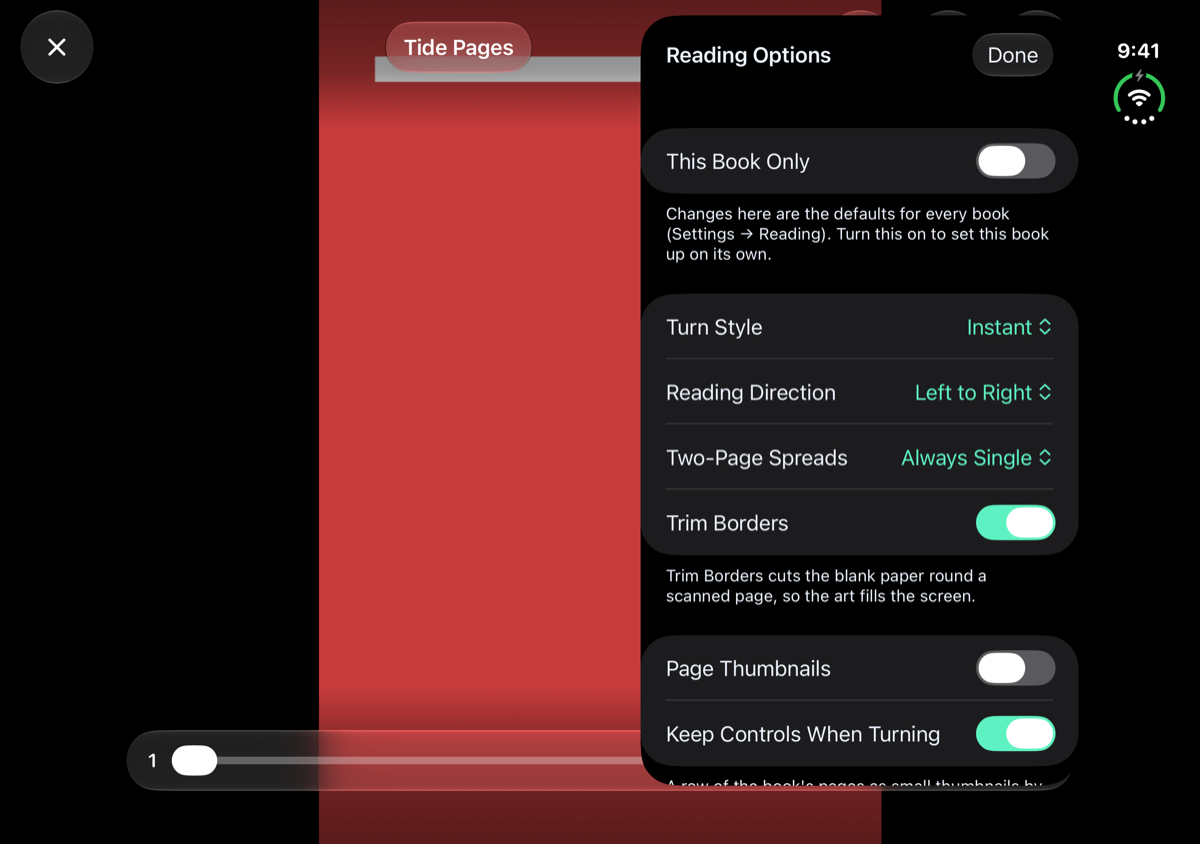
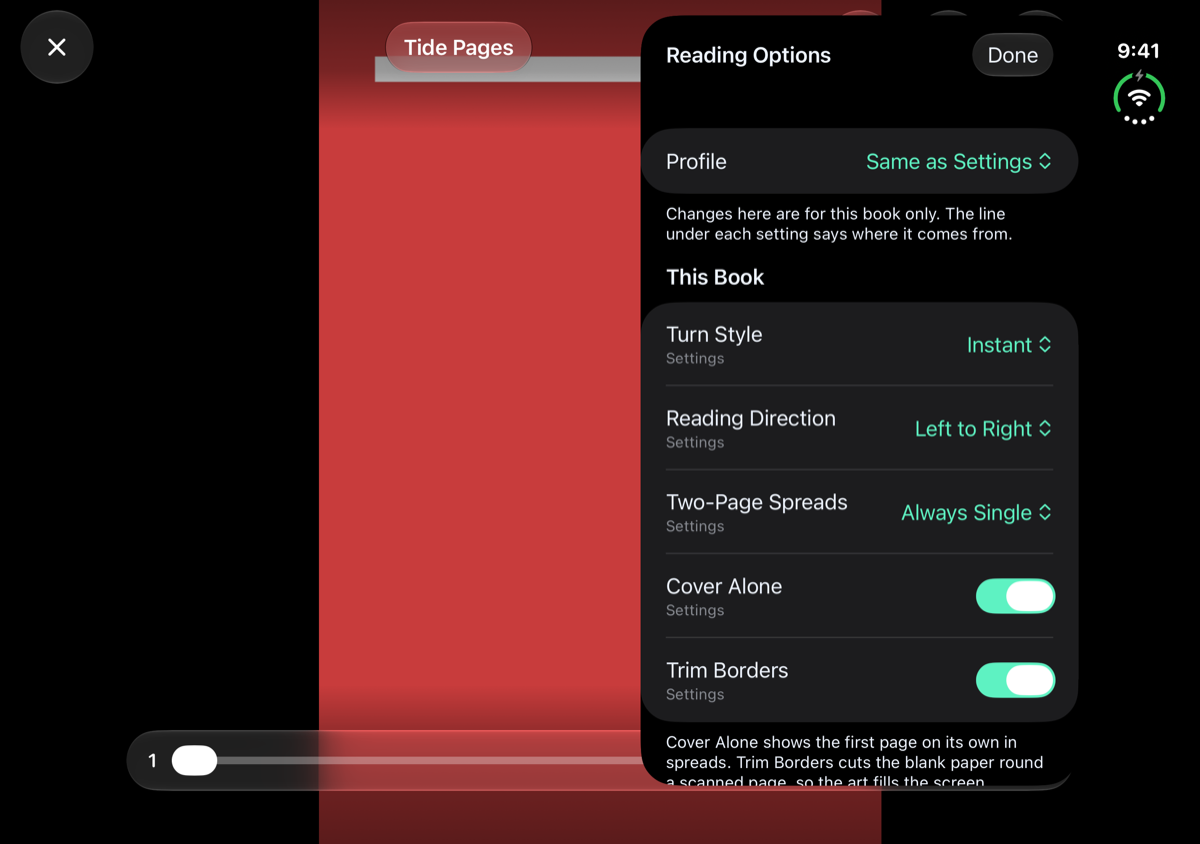
Publish the guide (from 3038395)

diff --git a/Reader.md b/Reader.md
@@ -45,7 +45,7 @@ With the controls showing:
 - **Close** and the book's title are at the top left.
 - At the top right are your buttons. To start with they are **Reading Options**, **Show Tap Zones** and **Zoom**. You choose them yourself: see [Lay the controls out your way](#lay-the-controls-out-your-way).
 - The scrubber runs along the bottom. In its **Timeline** style it shows the page you're on at one end and the page count at the other, with a pill to drag between them. **Classic** is the page number over a plain slider. After a big jump, **Back to page 12** (or whichever page you came from) takes you back.
-- A soft dark shade sits behind the buttons at the top and the scrubber at the bottom, so they're easy to see on a white page. The middle of the page stays clear. To turn it off, go to Settings → Reading → **Controls & Closing** → **Shade Behind Controls**.
+- A soft dark shade sits behind the buttons at the top and the scrubber at the bottom, so they stand out on a white page. The middle of the page stays clear. To turn it off, go to Settings → Reading → **Controls & Closing** → **Shade Behind Controls**.
 - **Page Number on Page** keeps a small page number showing while the controls are hidden. It's off to start with.
 
 Turn your iPhone on its side and the book shows two pages side by side, as below.
@@ -76,23 +76,17 @@ Scanned comics and manga often have blank paper round the art. **Trim Borders** 
 
 Tap **Reading Options** in the controls to change how this kind of book reads, without leaving it. It opens as a solid sheet, so a bright page doesn't show through it. On the iPhone Duo on its side it opens to the right of the fold, and a tap on the page to its left closes it.
 
-- **Turn Style**, **Reading Direction** (**Automatic**, **Left to Right** or **Right to Left**), **Two-Page Spreads** and **Trim Borders**.
+- **Profile** picks a [reading profile](Reading-Profiles.html) for this book.
+- **Turn Style**, **Reading Direction** (**Automatic**, **Left to Right** or **Right to Left**), **Two-Page Spreads**, **Cover Alone** and **Trim Borders**.
 - **Page Thumbnails** adds a row of the book's pages, small, by the timeline: scroll along it and tap one to jump there.
 - **Keep Controls When Turning** leaves the controls up as you turn.
-- **Profile** switches your whole reading setup in one tap. See below.
 - **Tap Zones**, **Show Tap Zones**, **Haptic on Page Turn**, **Volume Buttons**, **Auto Turn Every** and **Double-Tap to Zoom**.
 
-Turn on **This Book Only** and what you change here belongs to that one book, so a manga can read right to left while everything else doesn't. Turn it off again to go back to the defaults. Tap **Done** to close the sheet. The same settings live in Settings → **Reading**, which opens as four pages: **Book Types**, **Page Layout**, **Turning Pages** and **Controls & Closing**.
+What you change here is for this book only, so a manga can read right to left while everything else doesn't. The line under each setting says where it comes from: **This book**, a profile's name, the library, the book server or **Settings**. **Update** with the profile's name moves this book's changes into its profile (or **Update Defaults**, into Settings → Reading), and **Reset This Book** undoes them. Tap **Done** to close the sheet. The same settings live in Settings → **Reading**, which opens as four pages: **Book Types**, **Page Layout**, **Turning Pages** and **Controls & Closing**.
 
 ### Reading Profiles
 
-A profile saves a reading setup under a name, such as Manga. In Settings → **Reading**, tap **New Profile…**, give it a name and tap **Save**: it starts from your settings as they are now.
-
-Tap a profile to open its own page. **Book Types**, **Page Layout** and **Turning Pages** there change only that profile: turn styles, reading direction, spreads, tap zones, how EPUBs look and Read Aloud. **Used By** lists where it's used. The **…** button has **Make Default**, which copies the profile into Settings → Reading, plus **Rename**, **Duplicate** and **Delete**. To switch to a profile from a book, choose it in Reading Options under **Profile**.
-
-<div class="shot" markdown="0">
-<div class="shot-variant shot-iphone-18-pro-max"><img src="images/iphone-18-pro-max/reading-profile-page.png" alt="A reading profile's own page on an iPhone 18 Pro Max: Book Types, Page Layout and Turning Pages, then Used By, on an iPhone 18 Pro Max" loading="lazy"><div class="shot-label">iPhone 18 Pro Max</div></div>
-</div>
+A profile saves a reading setup under a name, such as Manga, to give to a book server, a library or one book. See [Reading profiles](Reading-Profiles.html).
 
 ## Tap zones
 
@@ -151,7 +145,7 @@ An EPUB's text reflows to fit your screen. Its controls are a little different:
   - **Turn Style**: **Slide**, **Curl**, **Instant** or **Vertical Scroll**.
 - **Read Aloud** (the speaker) reads the book to you from the page you're on. Its speed and whether it turns pages for you are in Settings → Reading → **Turning Pages**.
 
-The scrubber moves through the book by position. With **Shade Behind Controls** on, the dark shade sits behind the buttons, the Read Aloud bar and the scrubber here too, and they turn light so they stand out on a white page. Tap zones, keys and page turners work as they do for comics. As with comics, **This Book Only** gives one book its own look.
+The scrubber moves through the book by position. With **Shade Behind Controls** on, the dark shade sits behind the buttons, the Read Aloud bar and the scrubber here too, and they turn light so they stand out on a white page. Tap zones, keys and page turners work as they do for comics. As with comics, what you change in **Aa** is for this book only; **Aa** also has this book's Read Aloud speed and highlight.
 
 As in a printed book, the chapter's name and the time left in it sit above the text, and a page number sits under each page, counted from the start of the chapter. They show while the controls are hidden. Turn each off in Settings → Reading → **Book Types** → **Around the Text**.
 
@@ -202,11 +196,12 @@ Every book opens at the page you were last on. For books on a book server, your 
 | A tap turns the page when you wanted the controls | Change **Tap Zones** to **Sides**, or to **Off** and swipe. |
 | A swipe closes the book by accident | Turn off **Swipe Down to Close** in Settings → Reading → **Controls & Closing**. |
 | Pages show two at a time and you don't want that | Set **Two-Page Spreads** to **Always Single** in Reading Options. |
-| A manga reads the wrong way | Set **Reading Direction** to **Right to Left** in Reading Options, with **This Book Only** on to keep it to that book. |
+| A manga reads the wrong way | Set **Reading Direction** to **Right to Left** in Reading Options: it's for that book only. |
 | A button you want isn't in the controls | Add it in Settings → **Reader Controls**. |
 
 ## Related pages
 
+- [Reading profiles](Reading-Profiles.html): one setup for a book server, a library or a book
 - [Book servers](OPDS-Catalogs.html): reading from Kavita or Komga and keeping your place
 - [Media](Settings-Media.html): every Reading setting
 - [Settings](Settings.html): where Reader Controls lives
@@ -214,4 +209,4 @@ Every book opens at the page you were last on. For books on a book server, your 
 
 ---
 
-Previous: [← Listening to music](Music.html) · Next: [Book servers →](OPDS-Catalogs.html)
+Previous: [← Listening to music](Music.html) · Next: [Reading profiles →](Reading-Profiles.html)

diff --git a/Reading-Profiles.md b/Reading-Profiles.md
@@ -1,0 +1,84 @@
+---
+title: "Reading profiles"
+parent: "Use the app"
+nav_order: 7
+---
+
+# Reading profiles
+
+A reading profile is a named set of reading settings, such as Manga or Novels. Make one in Settings → **Reading**, then give it to a book server, one of its libraries or a single book, and every book there reads that way.
+
+## What a profile holds
+
+A profile holds everything one book can do differently from another:
+
+- **Turn Style** for comics, PDFs and EPUBs, **Reading Direction**, **Two-Page Spreads**, **Cover Alone** and **Trim Borders**.
+- **Tap Zones**.
+- How EPUBs look: theme, text size, font, margins, columns, **Book's Layout**, line and paragraph spacing, **Justify** and **Hyphenation**.
+- Read Aloud: speed, **Highlight the Sentence** and its color, **Use the Book's Narration** and **Play Narration When a Book Opens**.
+
+Swiping, the Custom Zones grid, Reader Controls, the volume buttons and Auto Turn belong to your iPhone, not to a profile. They stay in Settings → **Reading** for every book.
+
+## Make and change a profile
+
+<div class="shot" markdown="0">
+<div class="shot-variant shot-iphone-18-pro-max"><img src="images/iphone-18-pro-max/reading-profile-page.png" alt="A reading profile's own page on an iPhone 18 Pro Max: Book Types, Page Layout and Turning Pages, then Used By, on an iPhone 18 Pro Max" loading="lazy"><div class="shot-label">iPhone 18 Pro Max</div></div>
+</div>
+
+1. Open Settings → **Reading** and tap **New Profile…**.
+2. Give it a name and tap **Save**. It starts from your settings as they are now.
+3. Tap the profile to open its own page. **Book Types**, **Page Layout** and **Turning Pages** there change only that profile.
+
+**Used By** lists the book servers, libraries and books that read with it. The **…** button has **Make Default**, which copies the profile into Settings → Reading, plus **Rename**, **Duplicate** and **Delete**.
+
+## Where a profile can go
+
+Settings → **Reading** itself is the default: how a book reads when nothing else says otherwise. On top of it:
+
+- **A book server:** on its page (Settings → **Server List**, then the server), tap **Reading**.
+- **One library:** open the library and tap the book button at the top.
+- **One book:** in the book, open **Reading Options** (or **Aa** for an EPUB).
+
+Each starts as **Same as** the level under it, then you can pick a profile. Books from folders, file shares and **Downloads** have only the default and the book itself.
+
+<div class="shot" markdown="0">
+<div class="shot-variant shot-iphone-18-pro-max"><img src="images/iphone-18-pro-max/library-reading.png" alt="A library's Reading editor on an iPhone 18 Pro Max: Profile, then each setting, with Reading Direction set to Right to Left and the rest Same as Catalog, on an iPhone 18 Pro Max" loading="lazy"><div class="shot-label">iPhone 18 Pro Max</div></div>
+</div>
+
+## Tweaks: one setting on its own
+
+A book server, a library or a book can also change single settings without a whole profile. These are its tweaks. In the **Reading** editor, each setting says **Same as** and where its value comes from, such as **Same as Manga (Right to Left)**; choose a value to make it a tweak.
+
+- **Save as Profile…** turns how that server or library reads now into a new profile and picks it.
+- **Clear Tweaks** puts every setting back to **Same as**.
+
+A book server's **Reading** editor also has **Sync Reading Progress**: **Same as Settings**, **On** or **Off**, for that server only.
+
+## Which setting wins
+
+For each setting, the first of these that sets it wins:
+
+1. The book's tweak, then the book's profile.
+2. The library's tweak, then the library's profile.
+3. The book server's tweak, then its profile.
+4. Settings → **Reading**.
+
+A profile answers every setting, so a profile on a library hides the book server's tweaks. Storyteller's readaloud books start with taps that only show the controls, and **Slide**, until one of these levels says otherwise.
+
+## Changing a book while you read
+
+In **Reading Options** or **Aa**, a change is for this book only. The line under each setting says where it comes from: **This book**, a profile's name, **Library**, **Catalog** or **Settings**.
+
+- **Profile** picks a profile for this book.
+- **Update** with the profile's name, such as **Update Manga**, moves this book's changes into the profile it reads with, so every book with that profile gets them. When no profile applies, it's **Update Defaults**, which moves them into Settings → Reading.
+- **Reset This Book** drops its profile and changes.
+
+## Related pages
+
+- [Reading](Reader.html): turning pages, Reading Options and the rest of the reader
+- [Book servers](OPDS-Catalogs.html): adding a server and browsing its libraries
+- [Media](Settings-Media.html): every Reading setting
+
+---
+
+Previous: [← Reading](Reader.html) · Next: [Book servers →](OPDS-Catalogs.html)

diff --git a/Settings-Media.md b/Settings-Media.md
@@ -87,7 +87,7 @@ Settings → **Catalogs** is for Kavita, Komga and the other book servers: how t
 - **Series Cards**: **Volumes & Chapters**, **Reading Progress**, **Last Added**, **Start Year**, **Continue Button** and **Summary** switch what a series' card shows.
 - **Section Cards**: **Covers on Section Cards** shows what's in **On Deck**, **Recently Added** or a library on its card. **Cover Cycle** is how they move, **Speed** is how long each stays, and **Blurred Background** washes the main cover behind them.
 - **Series Pages**: **Series Pages** puts a series' cover, summary, progress and a button for what to read next above its volumes. **Cover Behind Series Pages** blurs the cover behind the page.
-- **Reading**: **Stream Comic Pages** opens a comic straight away and loads its pages as you read. **Sync Reading Progress** keeps your place in sync with the server. See [Read, and keep your place](OPDS-Catalogs.html#read-and-keep-your-place).
+- **Reading**: **Stream Comic Pages** opens a comic straight away and loads its pages as you read. **Sync Reading Progress** keeps your place in sync with the server; a server can turn it on or off for itself, under its **Reading**. See [Read, and keep your place](OPDS-Catalogs.html#read-and-keep-your-place).
 
 The iPhone Duo adds two switches to **Series Pages**: see [On your device](Devices.html).
 
@@ -99,7 +99,7 @@ The iPhone Duo adds two switches to **Series Pages**: see [On your device](Devic
 <div class="shot-variant shot-duo-open-side"><img src="images/duo-open-side/settings-reading.png" alt="Settings → Reading, on the iPhone Duo, open on its side" loading="lazy"><div class="shot-label">iPhone Duo — open, on its side</div></div>
 </div>
 
-Settings → **Reading** sets how comics, PDFs and EPUBs read. At the top, **Profiles** lists your saved setups: tap one to open its own page and change it, or tap **New Profile…** to start one from what's set now. See [Reading Profiles](Reader.html#reading-profiles). Under it are four pages. A book can have its own settings with **This Book Only** in Reading Options.
+Settings → **Reading** sets how comics, PDFs and EPUBs read. At the top, **Profiles** lists your saved setups: tap one to open its own page and change it, or tap **New Profile…** to start one from what's set now. See [Reading profiles](Reading-Profiles.html). Under it are four pages: the default for every book. A book server, a library or one book can read differently with its own profile or settings.
 
 ### Book Types
 

diff --git a/OPDS-Catalogs.md b/OPDS-Catalogs.md
@@ -1,7 +1,7 @@
 ---
 title: "Book servers"
 parent: "Use the app"
-nav_order: 7
+nav_order: 8
 ---
 
 # Book servers
@@ -111,12 +111,12 @@ With **Sync Reading Progress** on (also in Settings → **Catalogs**), your page
 
 ### How a catalog's books read
 
-A catalog, or one library in it, can have its own **Tap Zones** and **Turn Style**, so manga can turn one way and novels another:
+A book server, or one library in it, can have its own [reading profile](Reading-Profiles.html) and single settings of its own, so manga can read one way and novels another:
 
-- **The whole catalog:** on its page (Settings → **Server List**, then the catalog), under **Reading**.
+- **The whole server:** on its page (Settings → **Server List**, then the server), tap **Reading**. **Sync Reading Progress** there can be **On** or **Off** for this server only.
 - **One library:** open the library and tap the book button at the top.
 
-Each starts as **Same as Settings** (or **Same as Catalog** for a library), which leaves it to Settings → Reading. A library's choice wins over its catalog's, and a book's own **This Book Only** settings win over both. A book you open from Home follows the library you last opened it from. In the book, **Reading Options** (or **Aa** for an EPUB) shows the library's or catalog's choice and says so; changing it there changes it for the whole library or catalog.
+Each setting starts as **Same as Settings** (or **Same as Catalog** for a library). A library's choice wins over its server's, and a book's own changes win over both. A book you open from Home follows the library you last opened it from.
 
 ## Download for offline
 
@@ -145,4 +145,4 @@ On a series page, **Auto-Download New Chapters** downloads new volumes and chapt
 
 ---
 
-Previous: [← Reading](Reader.html) · Next: [Pictures →](Image-Viewer.html)
+Previous: [← Reading profiles](Reading-Profiles.html) · Next: [Pictures →](Image-Viewer.html)

diff --git a/whats-new.md b/whats-new.md
@@ -20,6 +20,8 @@ _Version 1.372.0 · 14 November 2026_
 - Update your profile from the book to use the change everywhere, or Reset This Book.
 - Pick a profile for one book, set its tap zones, and its Read Aloud speed and highlight.
 
+<img src="images/iphone-18-pro-max/read-options.png" width="300" alt="Reading Options over a comic on an iPhone 18 Pro Max: Profile Same as Settings, then This Book's Turn Style, Reading Direction, Two-Page Spreads and Cover Alone, each with Settings under its name">
+
 <details markdown="1">
 <summary>Everything in 1.372.0</summary>
 
@@ -44,6 +46,8 @@ _Version 1.371.0 · 14 November 2026_
 - Give a catalog or one of its libraries a reading profile, like Manga or Novels, and every book in it reads that way.
 - Change single settings for just that catalog or library, then Save as Profile… to keep them.
 - A catalog can turn Sync Reading Progress on or off on its own.
+
+<img src="images/iphone-18-pro-max/library-reading.png" width="300" alt="A library's Reading editor on an iPhone 18 Pro Max: Profile Same as Catalog, Reading Direction set to Right to Left, and the other settings Same as Settings with their values">
 
 <details markdown="1">
 <summary>Everything in 1.371.0</summary>

diff --git a/Privacy-and-Face-ID.md b/Privacy-and-Face-ID.md
@@ -1,7 +1,7 @@
 ---
 title: "Privacy and Face ID"
 parent: "Use the app"
-nav_order: 9
+nav_order: 10
 ---
 
 # Privacy and Face ID

diff --git a/Devices.md b/Devices.md
@@ -1,7 +1,7 @@
 ---
 title: "On your device"
 parent: "Use the app"
-nav_order: 10
+nav_order: 11
 ---
 
 # On your device

diff --git a/Image-Viewer.md b/Image-Viewer.md
@@ -1,7 +1,7 @@
 ---
 title: "Pictures"
 parent: "Use the app"
-nav_order: 8
+nav_order: 9
 ---
 
 # Pictures
